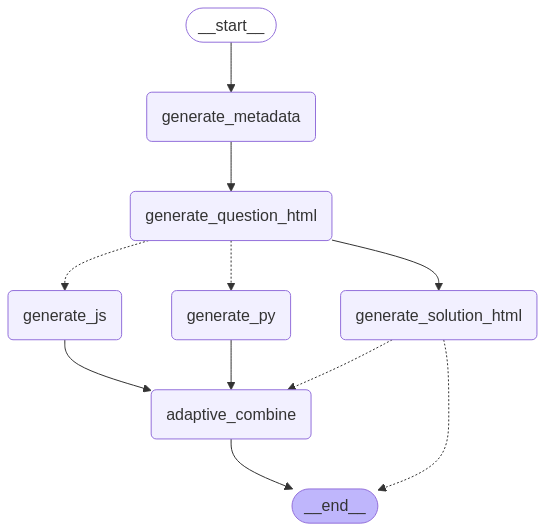
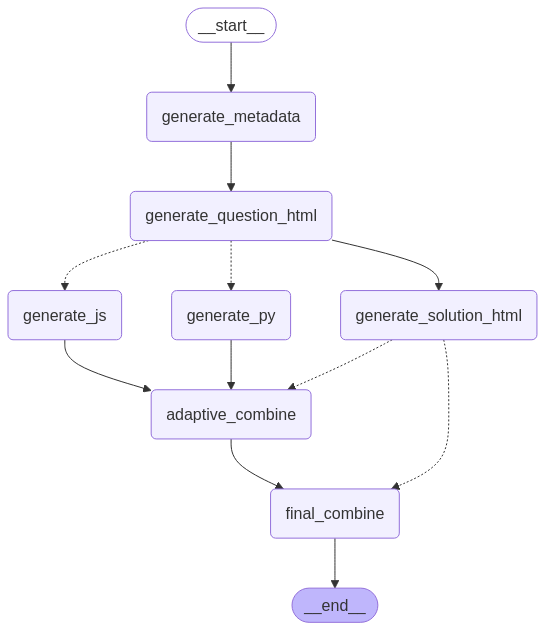
Updated some routes and chains

diff --git a/backend/ai_workspace/agents/engineering_codegen/code_generator.py b/backend/ai_workspace/agents/engineering_codegen/code_generator.py
@@ -76,8 +76,16 @@ class FilesData(BaseModel):
     server_js: str = ""
     server_py: str = ""
     solution_html: str = ""
-    metadata: str = ""
+    metadata: dict[str,Any] = {}
 
+class InitialMetadata(BaseModel):
+    createdBy: str
+    qtype:str
+    nSteps: int
+    updatedBy:str
+    codelang:str
+    reviewed: Literal["True", "False"]
+    ai_generated: Literal["True","False"]
 
 class QuestionPackage(BaseModel):
     """
@@ -88,12 +96,11 @@ class QuestionPackage(BaseModel):
     question_payload: Annotated[QuestionPayload, keep_first]
     question_metadata: Annotated[Optional[QuestionMetadata], keep_first] = None
     files: Annotated[FilesData, merge_files_data] = Field(default_factory=FilesData)
-
+    initial_metadata: Annotated[Optional[InitialMetadata], keep_first] = None
 
 class CodeResponse(BaseModel):
     """Output schema from the LLM for code generation."""
     code: str = Field(..., description="The generated code. Only return the code.")
-
 
 # =============================================================================
 # Runnable Nodes (Chain Functions)
@@ -348,6 +355,8 @@ async def final_combine(state: QuestionPackage) -> QuestionPackage:
         The final state (possibly modified) for the question package.
     """
     print("Finalizing Package")
+    state.files.metadata = {**state.question_metadata.model_dump(),
+                            **state.initial_metadata.model_dump()}
     return state
 
 
@@ -391,11 +400,12 @@ graph_nodes = [
     ("generate_py", generate_py),
     ("generate_solution_html", generate_solution_html),
     ("adaptive_combine", adaptive_combine),
+    ("final_combine", final_combine)
 ]
 
 # Add nodes with retry policy.
 for node_name, node_func in graph_nodes:
-    question_graph.add_node(node_name, node_func, retry=RetryPolicy(max_attempts=3))
+    question_graph.add_node(node_name, node_func, retry=RetryPolicy(max_attempts=1))
 
 # Construct graph edges.
 question_graph.add_edge(START, graph_nodes[0][0])
@@ -406,11 +416,11 @@ question_graph.add_conditional_edges(
     "generate_question_html", conditional_js_py_router, ["generate_js", "generate_py"]
 )
 question_graph.add_conditional_edges(
-    "generate_solution_html", solution_improvement_router, ["adaptive_combine", END]
+    "generate_solution_html", solution_improvement_router, ["adaptive_combine", "final_combine"]
 )
 question_graph.add_edge("generate_js", "adaptive_combine")
 question_graph.add_edge("generate_py", "adaptive_combine")
-question_graph.add_edge("adaptive_combine", END)
+question_graph.add_edge("adaptive_combine", "final_combine")
 question_graph.add_edge(graph_nodes[-1][0], END)
 
 # Compile the graph.
@@ -449,23 +459,33 @@ async def main() -> None:
     An initial question is provided; the graph then processes it,
     generating metadata, HTML, JavaScript, Python, and final solution HTML.
     """
-    initial_state = {
-        "question_payload": {
-            "question": (
-                "What is the final velocity of a 2 kg projectile launched at 30 degrees "
-                "with an initial speed of 20 m/s after 3 seconds?"
-            ),
-            "solution_guide": None,
-            "additional_instructions": None,
-        }
+    question_payload = {
+        "question": (
+            "What is the final velocity of a 2 kg projectile launched at 30 degrees "
+            "with an initial speed of 20 m/s after 3 seconds?"
+        ),
+        "solution_guide": None,
+        "additional_instructions": None,
     }
-    result = await compiled_graph.ainvoke(initial_state)
+    initial_metadata =  {
+        "createdBy": "lberm007@ucr.edu",
+        "qtype": "num",
+        "nSteps": 1,
+        "updatedBy": "",
+        "difficulty": 1,
+        "codelang": "javascript",
+        "reviewed": "False",
+        "ai_generated": "True"
+    }
+    
+    graph_input = QuestionPackage(question_payload=question_payload, initial_metadata=initial_metadata)
+    result = await compiled_graph.ainvoke(graph_input)
     print(result)
 
 
 if __name__ == "__main__":
     # Optionally save the graph visualization.
     save_graph_visualization(compiled_graph)
-    # import asyncio
+    import asyncio
 
-    # asyncio.run(main())
+    asyncio.run(main())

diff --git a/backend/routes/chains.py b/backend/routes/chains.py
@@ -51,6 +51,10 @@ def run_chain(data: QueryRequest, session: Session = Depends(get_session)):
     return result
 
 
+
+
+
+# Not Ready actively working on 
 class ChatInput(BaseModel):
     messages:list[str]
     thread_id: str
